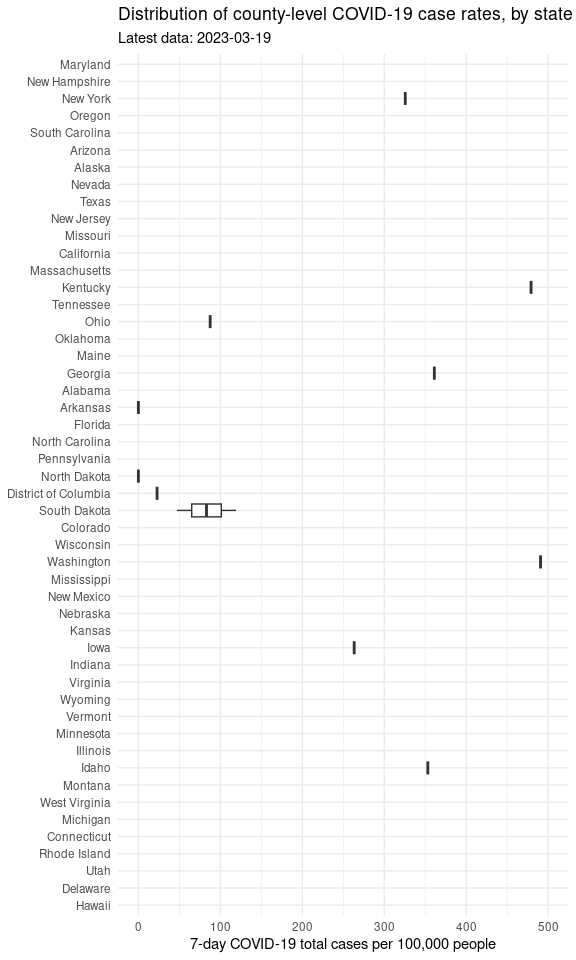
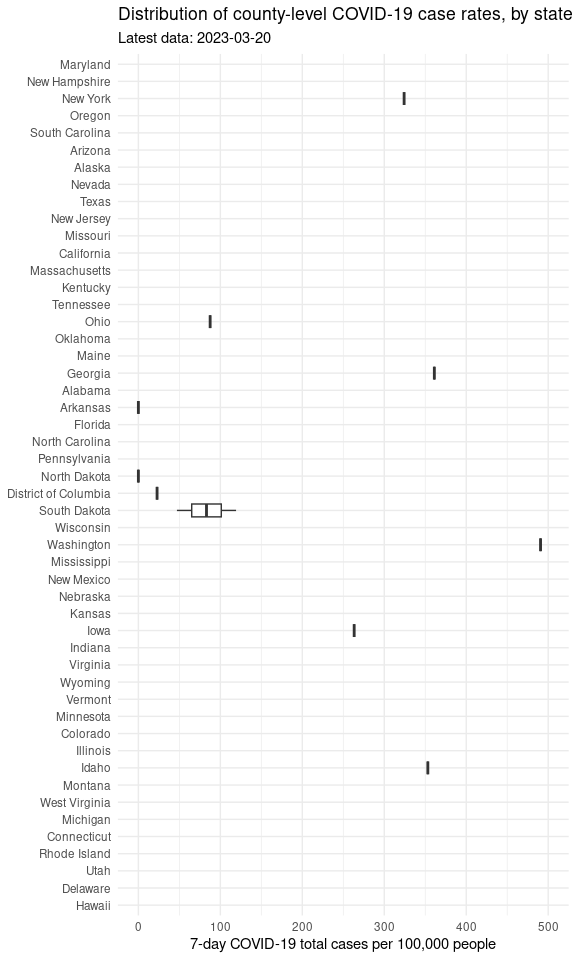
Updated report

Changed region(s): [[0.0625, 0.5312, 0.1875, 0.7812], [0.5938, 0.6562, 0.625, 0.6875], [0.4375, 0.0312, 0.4688, 0.0625]]

diff --git a/README.md b/README.md
@@ -1,7 +1,7 @@
 Minnesota COVID Report
 ================
 
-Report last run: 2023-03-20 23:40:01
+Report last run: 2023-03-21 03:12:44
 
 ## Introduction
 
@@ -118,15 +118,15 @@ rate_data %>%
 | Bethel Census Area | Alaska         |   18386 |      50990 |
 | Imperial           | California     |  181215 |      46361 |
 | Scott              | Tennessee      |   22068 |      45614 |
-| McKinley           | New Mexico     |   71367 |      44474 |
-| Greenup            | Kentucky       |   35098 |      43812 |
+| McKinley           | New Mexico     |   71367 |      44546 |
+| Greenup            | Kentucky       |   35098 |      43877 |
 | Burleigh           | North Dakota   |   95626 |      42409 |
 | Stark              | North Dakota   |   31489 |      41846 |
 | Craighead          | Arkansas       |  110332 |      40161 |
-| Floyd              | Kentucky       |   35589 |      39979 |
+| Floyd              | Kentucky       |   35589 |      40029 |
 | Whitley            | Kentucky       |   36264 |      39805 |
 | Lexington          | South Carolina |  298750 |      39581 |
 | Providence         | Rhode Island   |  638931 |      39523 |
-| Nassau             | New York       | 1356924 |      39348 |
+| Nassau             | New York       | 1356924 |      39350 |
 | Denali Borough     | Alaska         |    2097 |      39103 |
-| Pike               | Kentucky       |   57876 |      38864 |
+| Pike               | Kentucky       |   57876 |      38892 |
